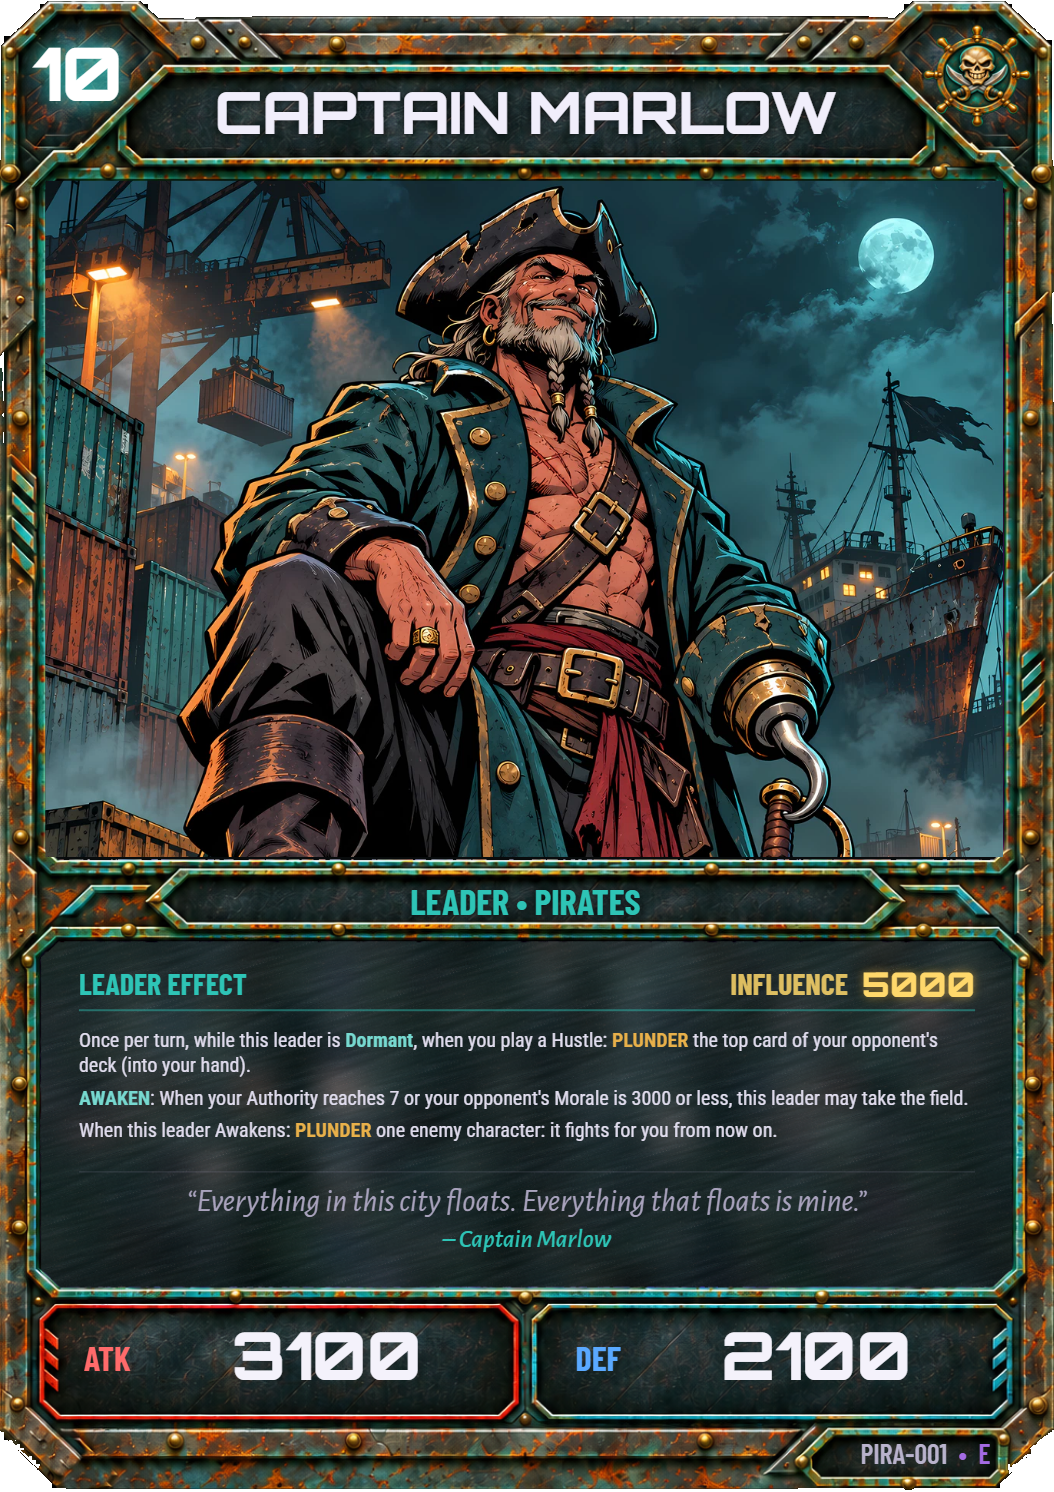
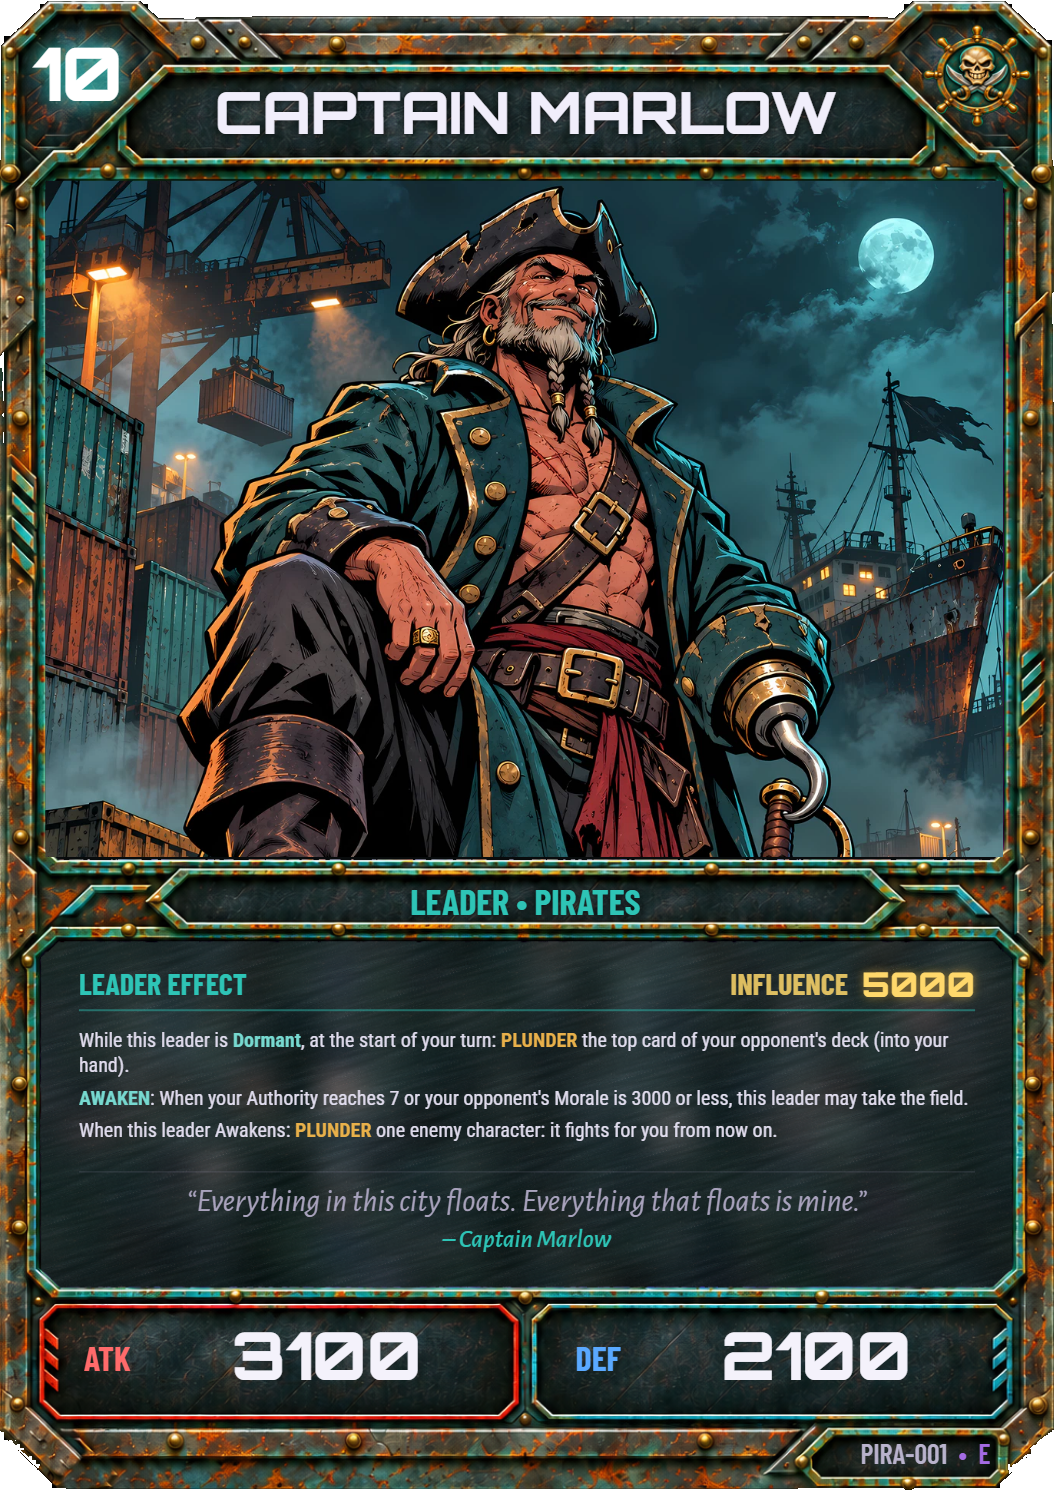
Captain Marlow: while Dormant, at the start of your turn, PLUNDER the top card of your opponent's deck (was: once per turn when you play a Hustle). SILENCE goes to the character it switches the most off (effects still to come; not a "when deployed" one, nor one already SILENCED), and "when your oppo
Starter games: Pirates 28.9% -> 37.5%. Marlow boss crews win 70/27/7% (was 75/30/5). Both engines; golden test matches.

Changed region(s): [[0.0607, 0.6783, 0.9108, 0.7399]]

diff --git a/shared/duel/DuelState.js b/shared/duel/DuelState.js
@@ -3031,9 +3031,11 @@ export class DuelState {
         if ((target === 'ally' || target === 'enemy') && this._equippedEntry(c)) {   // an Equip: its own character, no choice
             for (const x of entries) this._effect(side, c, fn(x), slot);
         } else if (target === 'ally' || target === 'enemy') {
+            // ("when your opponent deploys": the character just deployed comes first, except for a SILENCE,
+            // which goes where it switches the most off)
+            const first = vs.deployed != null && String(e.do ?? '') !== 'silence' ? vs.deployed : null;
             entries.sort((a, b) => {
-                // ("when your opponent deploys": the character just deployed comes first)
-                const da = vs.deployed != null && a.card === vs.deployed ? 1 : 0, db = vs.deployed != null && b.card === vs.deployed ? 1 : 0;
+                const da = first != null && a.card === first ? 1 : 0, db = first != null && b.card === first ? 1 : 0;
                 if (da !== db) return db - da;
                 const va = this._targetValue(side, e, a), vb = this._targetValue(side, e, b);
                 return va !== vb ? vb - va : (this.seats.indexOf(a.side) - this.seats.indexOf(b.side)) || a.slot - b.slot;
@@ -3212,6 +3214,17 @@ export class DuelState {
             case 'shield':
                 if (c.shield) return value - 50000;
                 break;
+            case 'silence': {
+                if (toInt(c.silence_until ?? 0) >= this.turn) return value - 50000;
+                // What it switches off: effects still to come (a "when deployed" one is done; PROMOTE still works)
+                let worth = 0;
+                for (const f of c.effects || []) {
+                    const when = String(f?.when ?? '');
+                    if (when === 'deploy' || String(f?.do ?? '') === 'promote') continue;
+                    worth += when === 'passive' || when === 'activate' ? 3 : 2;
+                }
+                return worth > 0 ? 100000 + worth * 10000 + value : value - 50000;
+            }
         }
         return value;
     }

diff --git a/shared/cards_forge.js b/shared/cards_forge.js
@@ -9400,14 +9400,13 @@ export const FORGE_CARDS = {
         "art_url": "card_pira_001",
         "code": "PIRA-001",
         "flavourText": "Everything in this city floats. Everything that floats is mine.",
-        "effectText": "Once per turn, while this leader is Dormant, when you play a Hustle: PLUNDER the top card of your opponent's deck (into your hand).\nAWAKEN: When your Authority reaches 7 or your opponent's Morale is 3000 or less, this leader may take the field.\nWhen this leader Awakens: PLUNDER one enemy character: it fights for you from now on.",
+        "effectText": "While this leader is Dormant, at the start of your turn: PLUNDER the top card of your opponent's deck (into your hand).\nAWAKEN: When your Authority reaches 7 or your opponent's Morale is 3000 or less, this leader may take the field.\nWhen this leader Awakens: PLUNDER one enemy character: it fights for you from now on.",
         "effects": [
             {
-                "when": "dormant_hustle",
+                "when": "dormant_turn_start",
                 "do": "plunder",
                 "from": "deck",
-                "amount": 1,
-                "once": true
+                "amount": 1
             },
             {
                 "when": "awaken",
